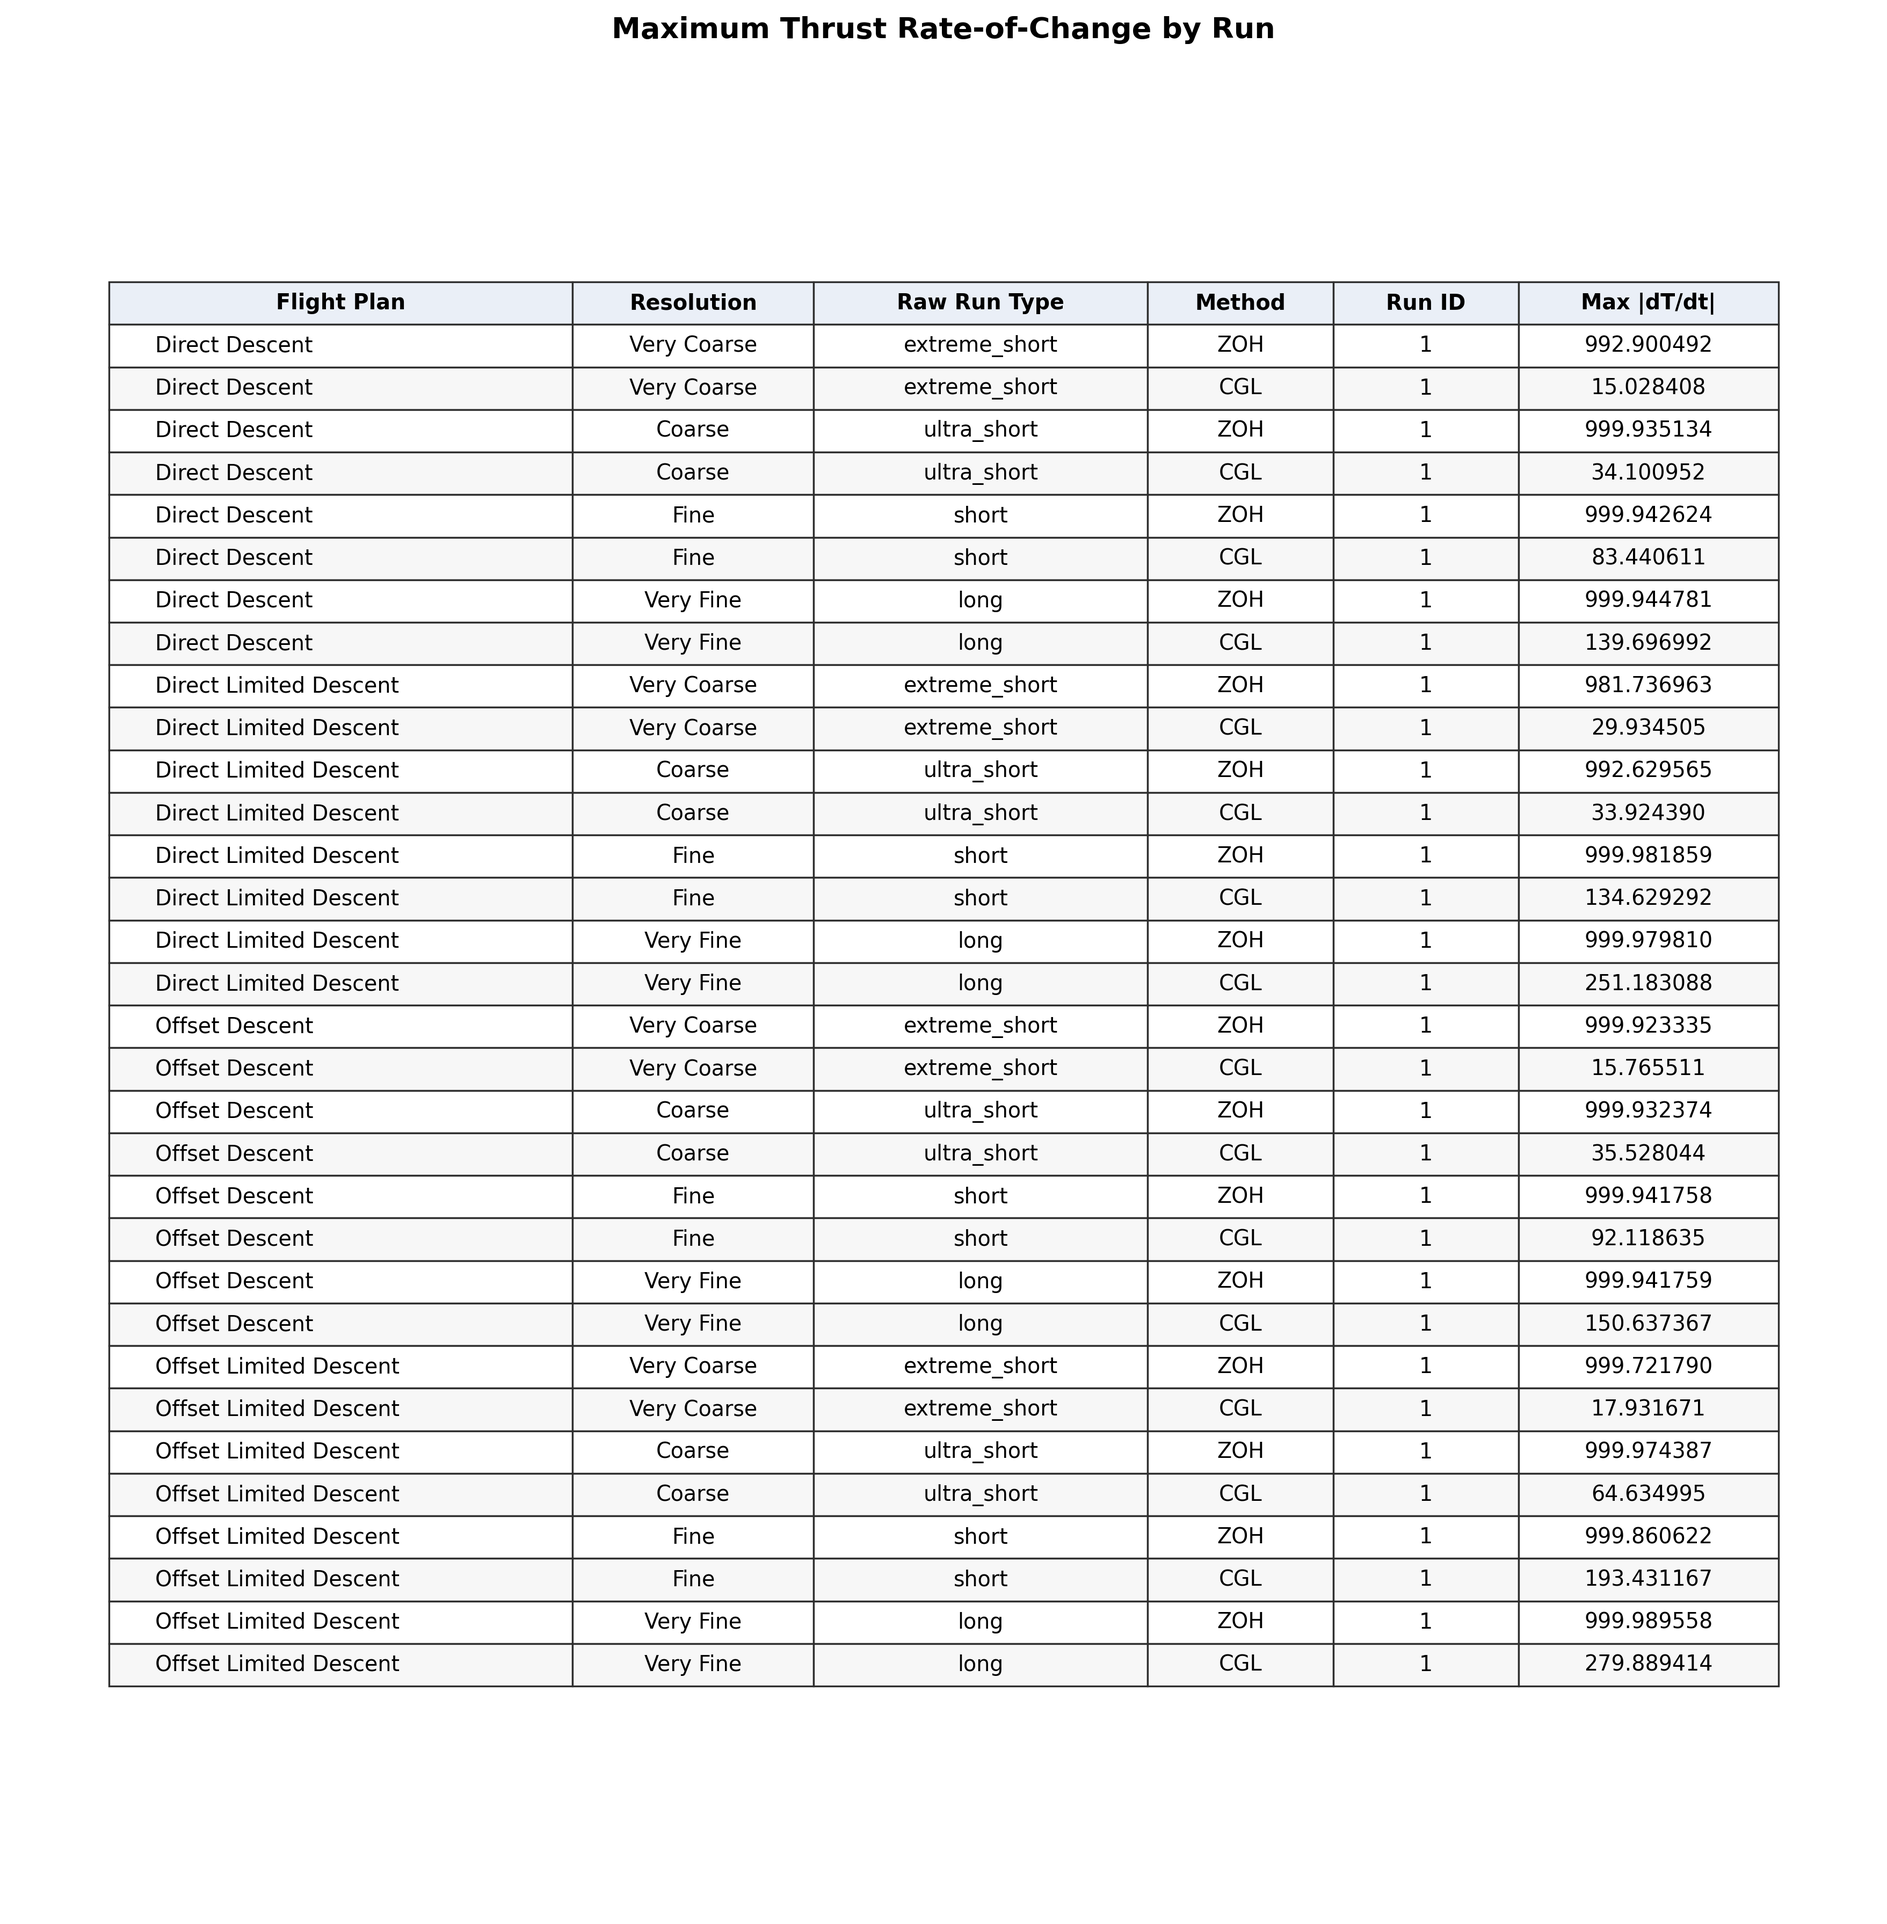
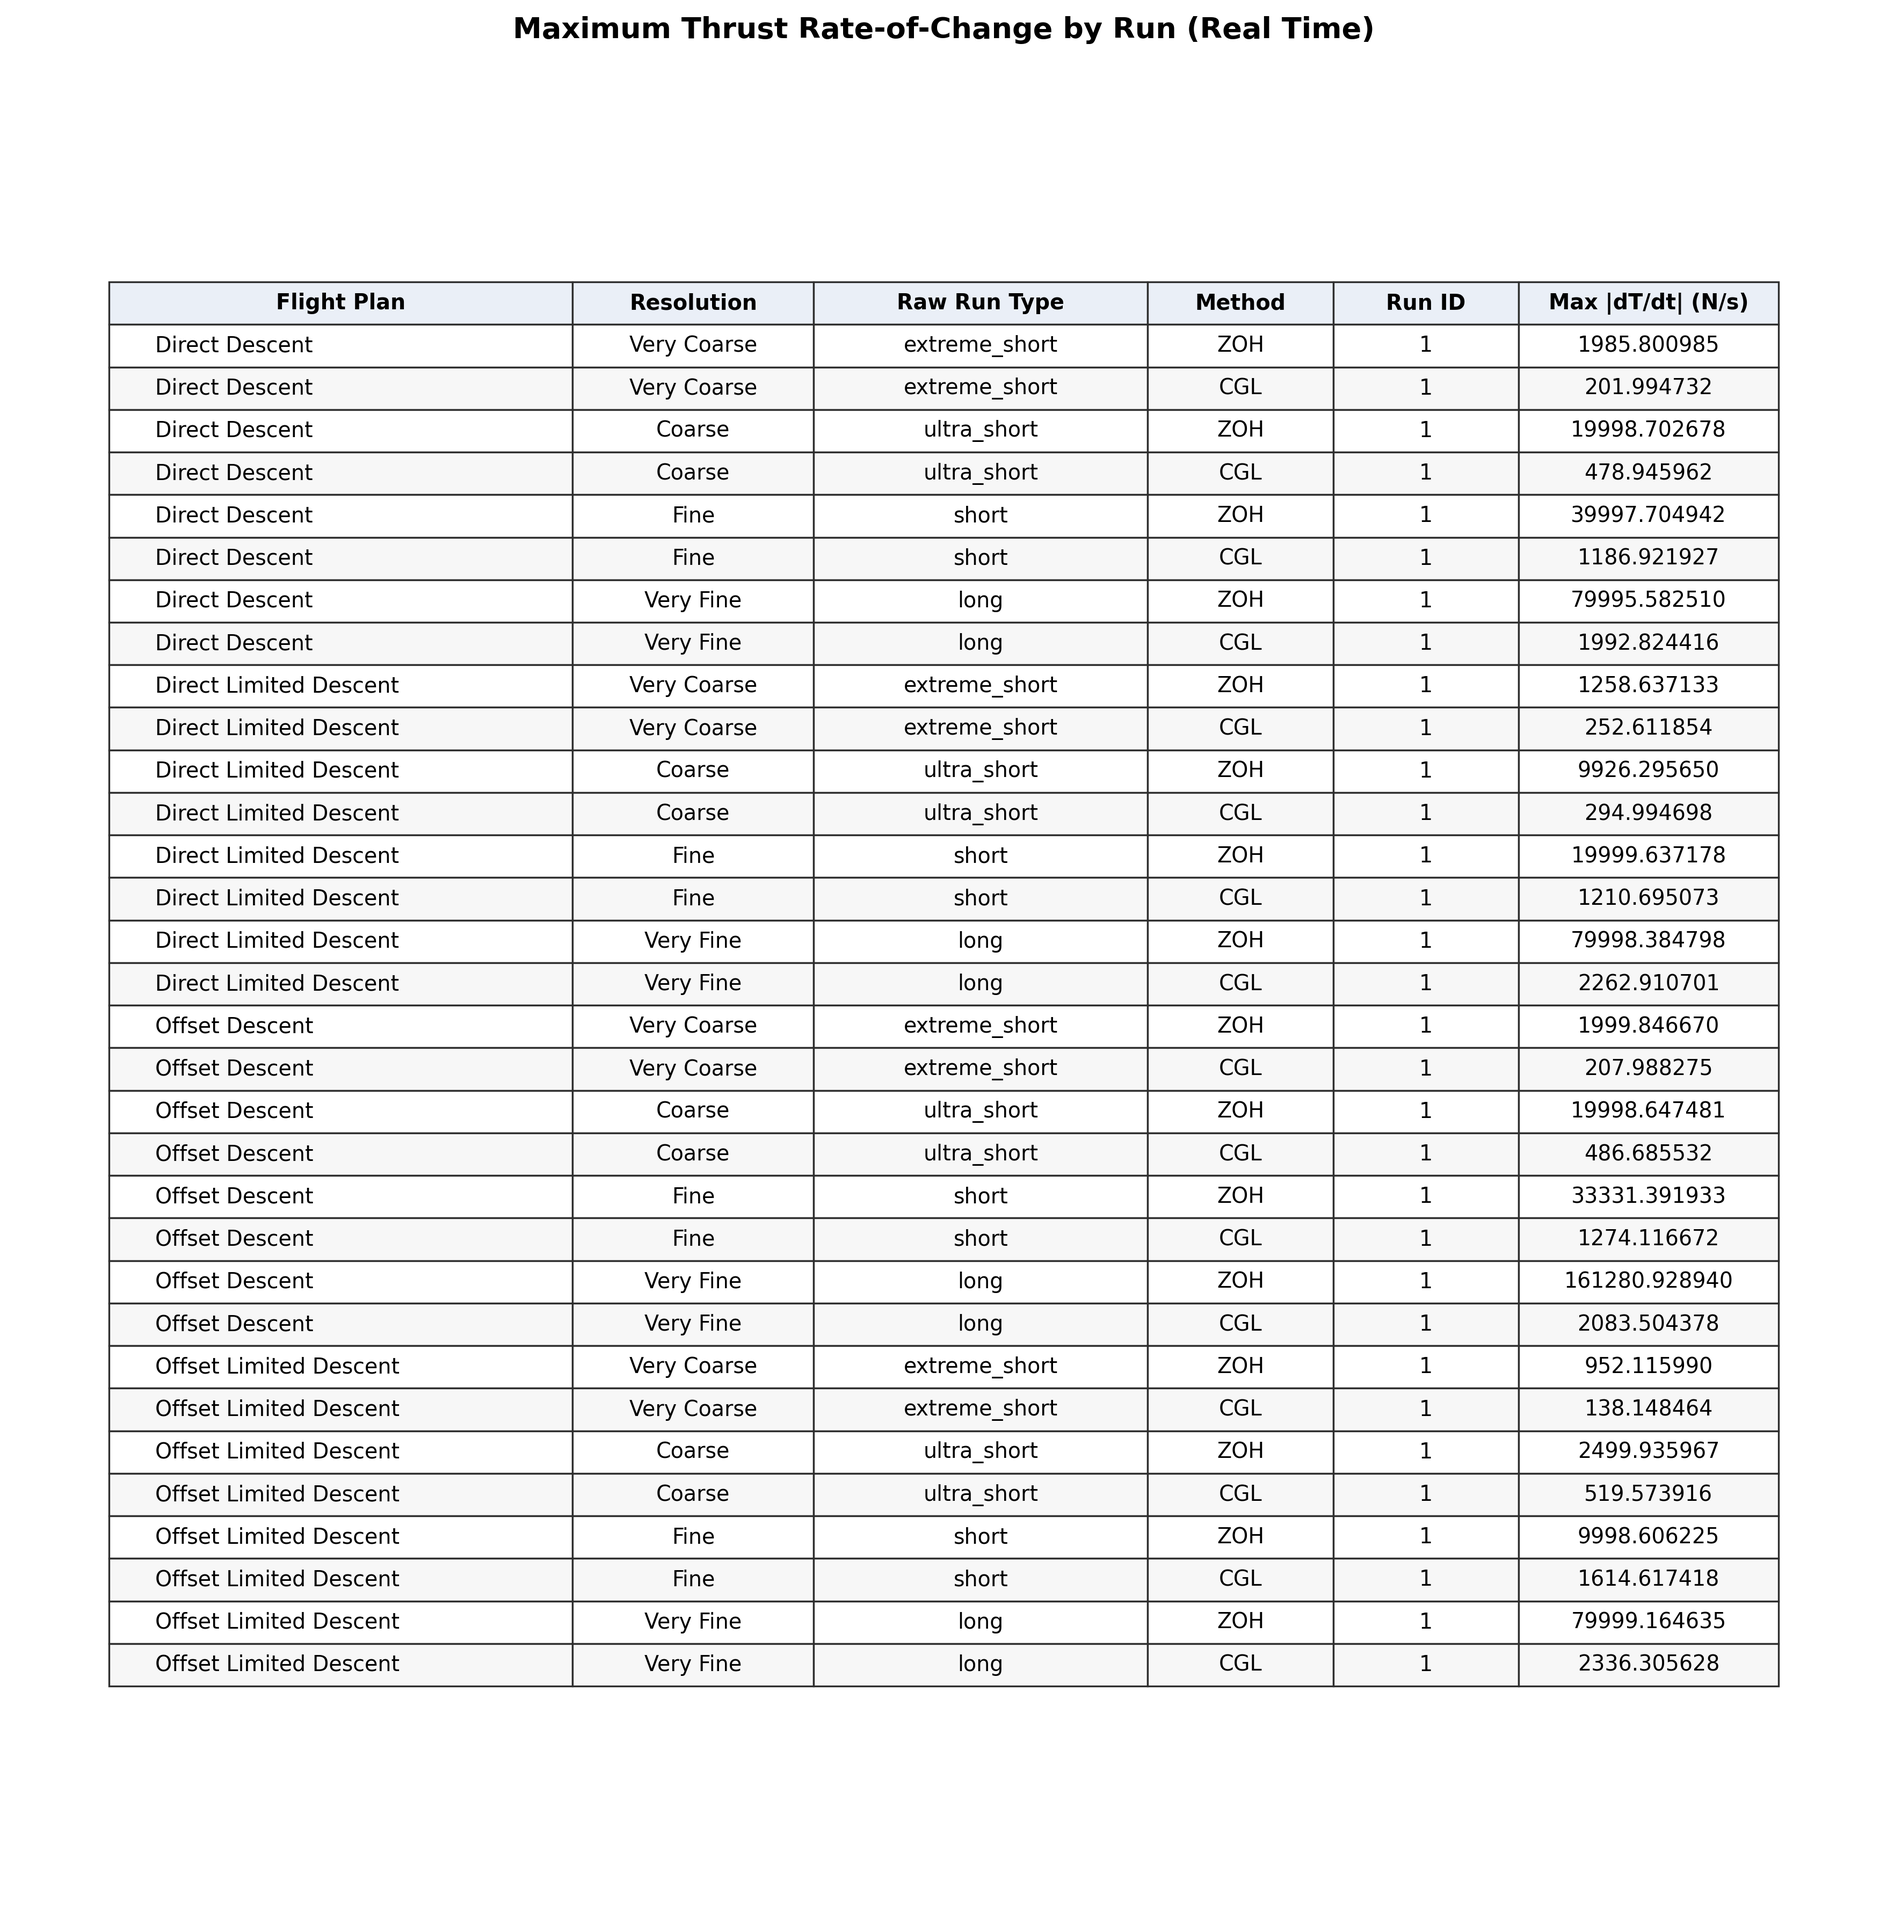
final graphs (it's finally over)

Changed region(s): [[0.8375, 0.1549, 0.9306, 0.8674], [0.2792, 0.0, 0.7134, 0.031]]

diff --git a/Algorithms/LosslessConvexification/rust_lossless/src/compute_max_thrust_rate_change.py b/Algorithms/LosslessConvexification/rust_lossless/src/compute_max_thrust_rate_change.py
@@ -75,7 +75,47 @@ def humanize(text: str) -> str:
     return " ".join(part.capitalize() for part in text.split("_"))
 
 
-def compute_max_abs_dthrust_dt(path: Path) -> tuple[float | None, int]:
+def extract_run_name_from_trajectory(path: Path) -> str:
+    stem = path.stem
+    if stem.startswith("trajectory_"):
+        return stem[len("trajectory_") :]
+    return stem
+
+
+def read_time_of_flight_by_run(run_dir: Path) -> dict[str, float]:
+    solve_metrics_path = run_dir / "solve_metrics.csv"
+    if not solve_metrics_path.exists() or not solve_metrics_path.is_file():
+        return {}
+
+    with solve_metrics_path.open(newline="") as f:
+        reader = csv.DictReader(f)
+        if not reader.fieldnames:
+            return {}
+        if "run_name" not in reader.fieldnames or "time_of_flight_s" not in reader.fieldnames:
+            return {}
+
+        pass_priority = {"total": 0, "fine": 1, "coarse": 2}
+        selected: dict[str, tuple[int, float]] = {}
+        has_pass_column = "pass" in reader.fieldnames
+
+        for row in reader:
+            run_name = (row.get("run_name") or "").strip()
+            if not run_name:
+                continue
+            tof = parse_float(row.get("time_of_flight_s", ""))
+            if tof is None or tof <= 0:
+                continue
+
+            pass_name = (row.get("pass") or "").strip().lower() if has_pass_column else ""
+            priority = pass_priority.get(pass_name, 10)
+            current = selected.get(run_name)
+            if current is None or priority < current[0]:
+                selected[run_name] = (priority, tof)
+
+    return {run_name: tof for run_name, (_, tof) in selected.items()}
+
+
+def compute_max_abs_dthrust_dt(path: Path, time_of_flight_s: float | None) -> tuple[float | None, int]:
     with path.open(newline="") as f:
         reader = csv.DictReader(f)
         if not reader.fieldnames:
@@ -85,10 +125,8 @@ def compute_max_abs_dthrust_dt(path: Path) -> tuple[float | None, int]:
         if missing:
             raise ValueError(f"{path} is missing required columns: {sorted(missing)}")
 
-        max_rate: float | None = None
-        prev_t: float | None = None
-        prev_thrust: float | None = None
-        parsed_rows = 0
+        t_values: list[float] = []
+        thrust_values: list[float] = []
 
         for row in reader:
             t_value = parse_float(row.get("t", ""))
@@ -96,16 +134,30 @@ def compute_max_abs_dthrust_dt(path: Path) -> tuple[float | None, int]:
             if t_value is None or thrust_value is None:
                 continue
 
-            parsed_rows += 1
-            if prev_t is not None and prev_thrust is not None:
-                dt = t_value - prev_t
-                if dt > 0:
-                    rate = abs((thrust_value - prev_thrust) / dt)
-                    if max_rate is None or rate > max_rate:
-                        max_rate = rate
+            t_values.append(t_value)
+            thrust_values.append(thrust_value)
 
-            prev_t = t_value
-            prev_thrust = thrust_value
+    parsed_rows = len(t_values)
+    if parsed_rows < 2:
+        return None, parsed_rows
+
+    raw_time_span = t_values[-1] - t_values[0]
+    time_scale = 1.0
+    if time_of_flight_s is not None and time_of_flight_s > 0 and raw_time_span > 0:
+        # Convert index-like timeline to real seconds while keeping compatibility
+        # with future CSVs that might already use real-time t.
+        time_scale = time_of_flight_s / raw_time_span
+
+    max_rate: float | None = None
+    for idx in range(1, parsed_rows):
+        dt_raw = t_values[idx] - t_values[idx - 1]
+        dt = dt_raw * time_scale
+        if dt <= 0:
+            continue
+        dthrust = thrust_values[idx] - thrust_values[idx - 1]
+        rate = abs(dthrust / dt)
+        if max_rate is None or rate > max_rate:
+            max_rate = rate
 
     return max_rate, parsed_rows
 
@@ -114,6 +166,7 @@ def collect_rows(root: Path) -> list[dict[str, str]]:
     rows: list[dict[str, str]] = []
     resolution_order = {name: idx for idx, (name, _) in enumerate(RUN_TYPE_MAP)}
     flight_order = {name: idx for idx, name in enumerate(FLIGHT_PLANS)}
+    tof_cache: dict[Path, dict[str, float]] = {}
 
     for flight_plan in FLIGHT_PLANS:
         for resolution_label, raw_run_type in RUN_TYPE_MAP:
@@ -122,8 +175,16 @@ def collect_rows(root: Path) -> list[dict[str, str]]:
                 if not run_dir.exists() or not run_dir.is_dir():
                     continue
 
+                if run_dir not in tof_cache:
+                    tof_cache[run_dir] = read_time_of_flight_by_run(run_dir)
+                time_of_flight_by_run = tof_cache[run_dir]
+
                 for trajectory_csv in sorted(run_dir.glob("trajectory_*.csv")):
-                    max_rate, parsed_rows = compute_max_abs_dthrust_dt(trajectory_csv)
+                    run_name = extract_run_name_from_trajectory(trajectory_csv)
+                    time_of_flight_s = time_of_flight_by_run.get(run_name)
+                    max_rate, parsed_rows = compute_max_abs_dthrust_dt(
+                        trajectory_csv, time_of_flight_s
+                    )
                     if max_rate is None:
                         continue
                     run_id = parse_run_id(trajectory_csv)
@@ -136,6 +197,9 @@ def collect_rows(root: Path) -> list[dict[str, str]]:
                             "run_id": str(run_id if run_id >= 0 else ""),
                             "trajectory_csv": str(trajectory_csv.relative_to(root)),
                             "num_samples": str(parsed_rows),
+                            "time_of_flight_s": f"{time_of_flight_s:.6f}" if time_of_flight_s else "",
+                            "max_abs_dthrust_dt_n_per_s": f"{max_rate:.9f}",
+                            # Legacy compatibility for existing consumers.
                             "max_abs_dthrust_dt": f"{max_rate:.9f}",
                         }
                     )
@@ -164,6 +228,8 @@ def write_csv(path: Path, rows: list[dict[str, str]]) -> None:
                 "method",
                 "run_id",
                 "num_samples",
+                "time_of_flight_s",
+                "max_abs_dthrust_dt_n_per_s",
                 "max_abs_dthrust_dt",
                 "trajectory_csv",
             ],
@@ -195,7 +261,7 @@ def render_table_image(rows: list[dict[str, str]], output_path: Path) -> None:
                 row["run_type"],
                 row["method"].upper(),
                 row["run_id"] or "N/A",
-                f"{float(row['max_abs_dthrust_dt']):.6f}",
+                f"{float(row['max_abs_dthrust_dt_n_per_s']):.6f}",
             ]
         )
 
@@ -207,7 +273,7 @@ def render_table_image(rows: list[dict[str, str]], output_path: Path) -> None:
             "Raw Run Type",
             "Method",
             "Run ID",
-            "Max |dT/dt|",
+            "Max |dT/dt| (N/s)",
         ],
         colWidths=[0.25, 0.13, 0.18, 0.10, 0.10, 0.14],
         cellLoc="center",
@@ -228,7 +294,7 @@ def render_table_image(rows: list[dict[str, str]], output_path: Path) -> None:
         if col_idx == 0 and row_idx > 0:
             cell.get_text().set_ha("left")
 
-    ax.set_title("Maximum Thrust Rate-of-Change by Run", pad=10, fontweight="semibold")
+    ax.set_title("Maximum Thrust Rate-of-Change by Run (Real Time)", pad=10, fontweight="semibold")
     output_path.parent.mkdir(parents=True, exist_ok=True)
     fig.tight_layout()
     fig.savefig(output_path, bbox_inches="tight")

diff --git a/Algorithms/LosslessConvexification/rust_lossless/src/plot_max_thrust_rate_change_split_by_method.py b/Algorithms/LosslessConvexification/rust_lossless/src/plot_max_thrust_rate_change_split_by_method.py
@@ -51,6 +51,12 @@ def parse_args() -> argparse.Namespace:
             f"(default: {default_root / 'figures' / 'max_thrust_rate_change_split_by_method.png'})"
         ),
     )
+    parser.add_argument(
+        "--y-max",
+        type=float,
+        default=None,
+        help="Optional fixed y-axis max. If omitted, uses data-driven scaling.",
+    )
     return parser.parse_args()
 
 
@@ -74,7 +80,7 @@ def load_data(path: Path) -> dict[tuple[str, str, str], float]:
         reader = csv.DictReader(f)
         if not reader.fieldnames:
             raise ValueError(f"{path} has no header row")
-        required = {"flight_plan", "resolution", "method", "max_abs_dthrust_dt"}
+        required = {"flight_plan", "resolution", "method"}
         missing = required.difference(reader.fieldnames)
         if missing:
             raise ValueError(f"{path} is missing required columns: {sorted(missing)}")
@@ -86,7 +92,10 @@ def load_data(path: Path) -> dict[tuple[str, str, str], float]:
             flight_plan = normalize_flight_plan(row.get("flight_plan", ""))
             resolution = (row.get("resolution") or "").strip().lower()
             method = (row.get("method") or "").strip().lower()
-            value = parse_float(row.get("max_abs_dthrust_dt", ""))
+            value = parse_float(row.get("max_abs_dthrust_dt_n_per_s", ""))
+            if value is None:
+                # Backward compatibility with older CSV exports.
+                value = parse_float(row.get("max_abs_dthrust_dt", ""))
 
             if (
                 flight_plan not in FLIGHT_PLANS
@@ -106,7 +115,11 @@ def load_data(path: Path) -> dict[tuple[str, str, str], float]:
     return means
 
 
-def make_plot(values: dict[tuple[str, str, str], float], output_path: Path) -> None:
+def make_plot(
+    values: dict[tuple[str, str, str], float],
+    output_path: Path,
+    y_max_override: float | None = None,
+) -> None:
     if not values:
         raise RuntimeError("No usable rows found for plotting")
 
@@ -183,44 +196,57 @@ def make_plot(values: dict[tuple[str, str, str], float], output_path: Path) -> N
     split_x = (left_centers[-1] + right_centers[0]) / 2.0
     ax.axvline(split_x, color="gray", linestyle="--", linewidth=1.1, alpha=0.8)
 
-    ax.set_ylim(0.0, 1500.0)
-    y_min, y_max = ax.get_ylim()
+    positive_values = [value for value in values.values() if math.isfinite(value) and value > 0.0]
+    if not positive_values:
+        raise RuntimeError("No finite positive values available for log-scale plotting")
+
+    y_bottom_limit = max(min(positive_values) * 0.8, 1e-9)
+    if y_max_override is not None and y_max_override > 0:
+        y_top_limit = y_max_override
+    else:
+        y_top_limit = max(positive_values) * 6
+    if y_top_limit <= y_bottom_limit:
+        y_top_limit = y_bottom_limit * 10.0
+
+    ax.set_yscale("log")
+    ax.set_ylim(bottom=y_bottom_limit, top=y_top_limit)
     y_top = ax.get_ylim()[1]
     ax.text(
         sum(left_centers) / len(left_centers),
-        y_top * 0.98,
+        0.98,
         "Method: ZOH",
         ha="center",
         va="top",
         fontsize=11,
         fontweight="semibold",
+        transform=ax.get_xaxis_transform(),
     )
     ax.text(
         sum(right_centers) / len(right_centers),
-        y_top * 0.98,
+        0.98,
         "Method: CGL",
         ha="center",
         va="top",
         fontsize=11,
         fontweight="semibold",
+        transform=ax.get_xaxis_transform(),
     )
 
     ax.set_title("Maximum Thrust Rate-of-Change by Method, Flight Plan, and Resolution")
-    ax.set_ylabel("Max |dT/dt| (N/t-unit)")
+    ax.set_ylabel("Max |dT/dt| (N/s, log scale)")
     ax.set_xlabel("Flight Plan and Method")
     ax.grid(axis="y", linestyle="--", linewidth=0.8, alpha=0.35)
     ax.set_axisbelow(True)
 
-    y_min, y_max = ax.get_ylim()
-    y_offset = (y_max - y_min) * 0.012
+    _, y_max = ax.get_ylim()
     for method, container in bar_containers:
         for bar in container:
             height = bar.get_height()
-            if not math.isfinite(height):
+            if not math.isfinite(height) or height <= 0:
                 continue
             ax.text(
                 bar.get_x() + bar.get_width() / 2.0,
-                height + y_offset,
+                min(height * 1.03, y_max * 0.98),
                 f"{height:.1f}",
                 ha="center",
                 va="bottom",
@@ -251,7 +277,7 @@ def main() -> None:
     output_path = args.output.resolve()
 
     values = load_data(input_path)
-    make_plot(values, output_path)
+    make_plot(values, output_path, y_max_override=args.y_max)
     print(f"Saved {output_path}")
 
 
